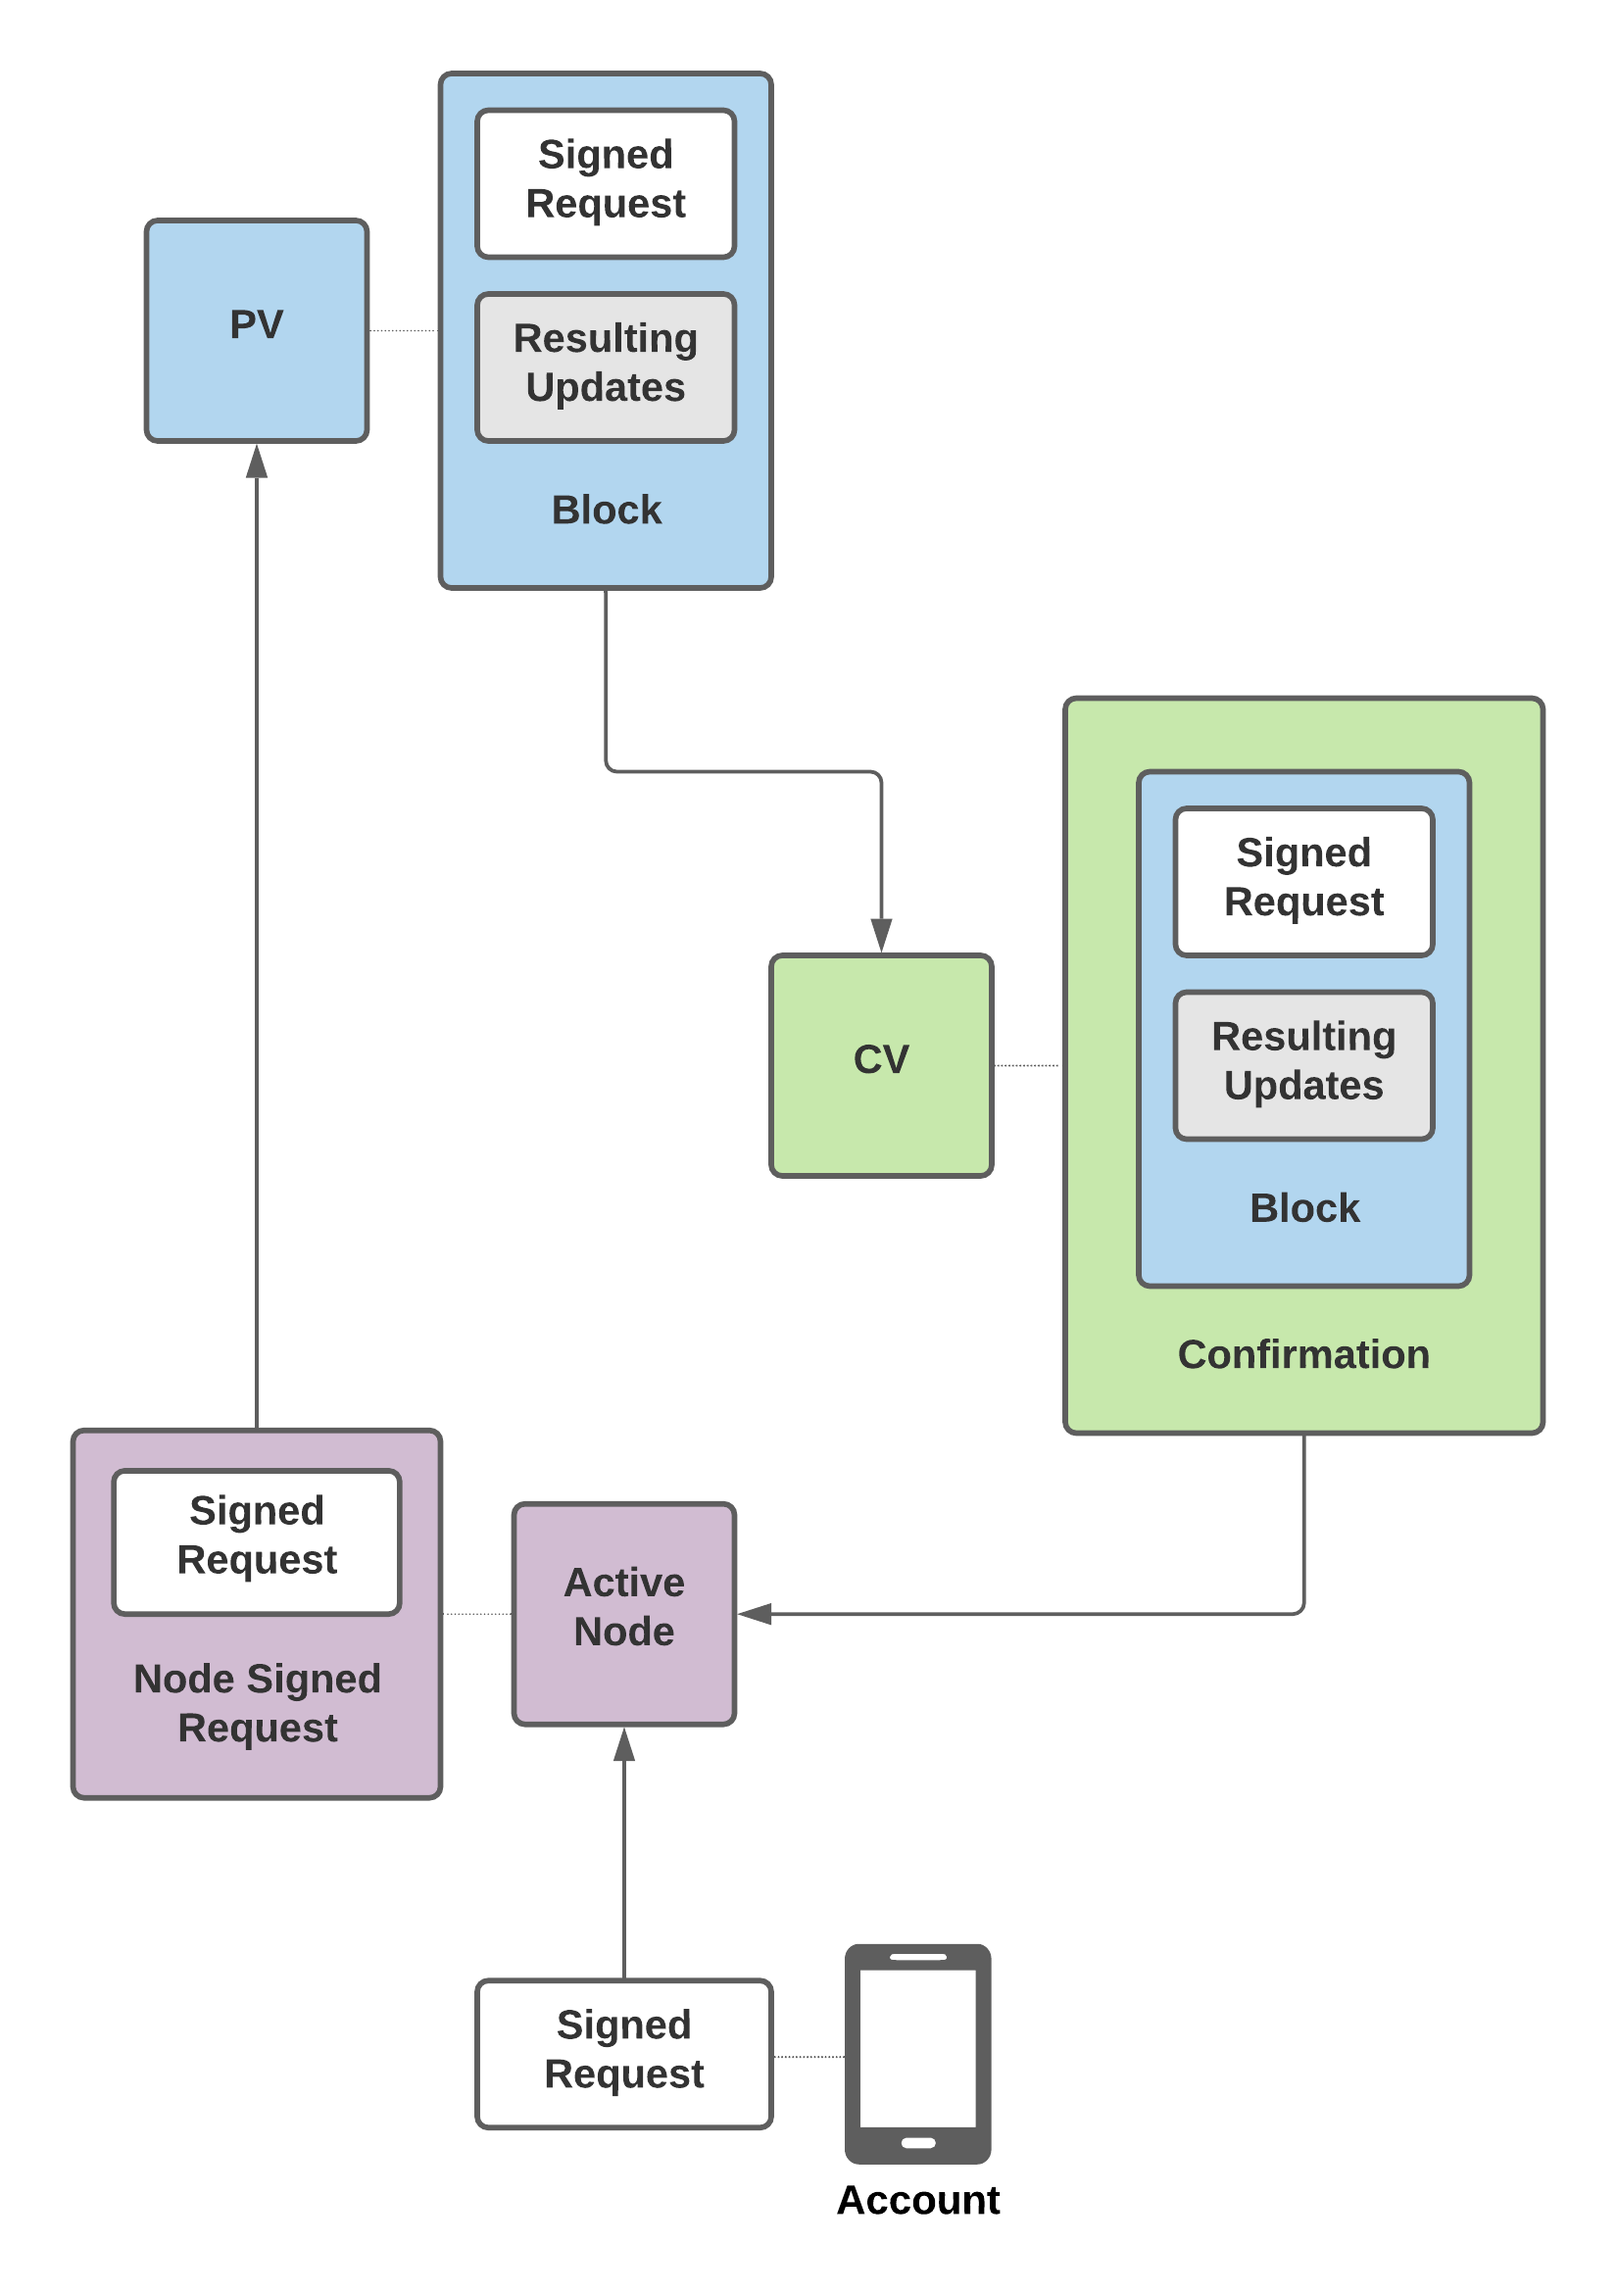
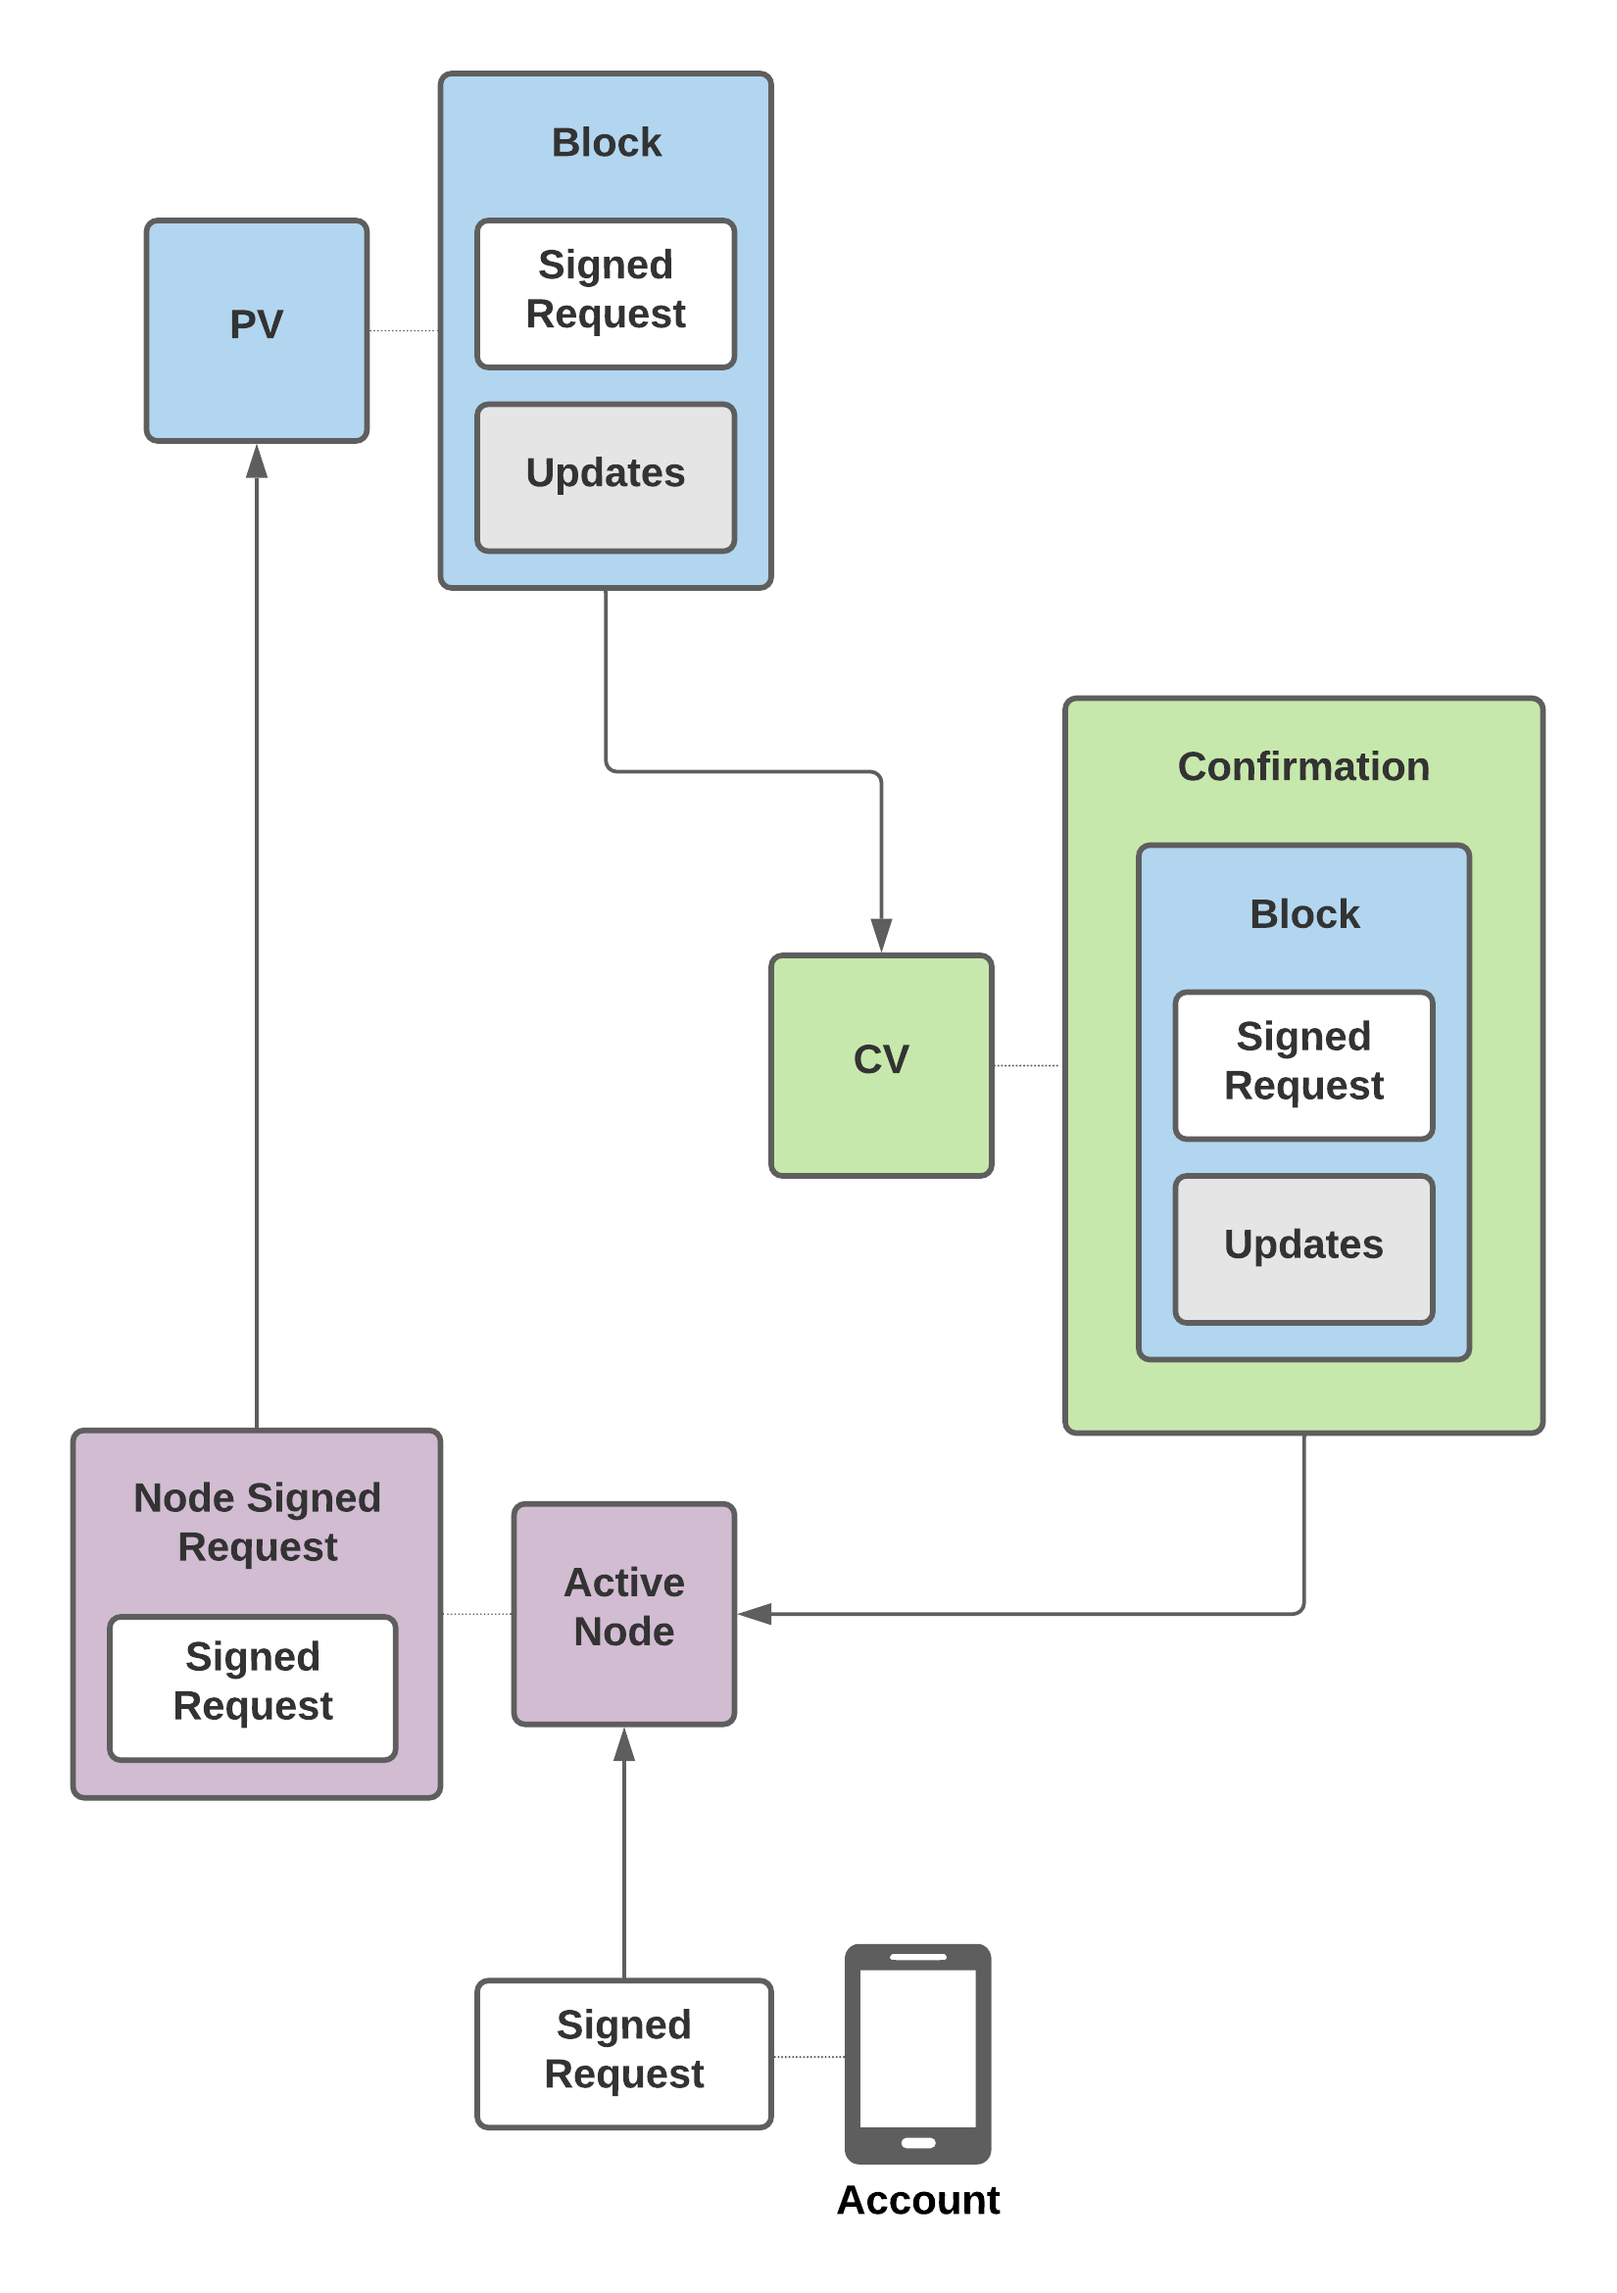
Doc updates

Changed region(s): [[0.68, 0.312, 0.9273, 0.6239], [0.2782, 0.0312, 0.4636, 0.2496], [0.0618, 0.6239, 0.2473, 0.7799]]

diff --git a/src/containers/Guide/GuideBlockStructure/index.tsx b/src/containers/Guide/GuideBlockStructure/index.tsx
@@ -2,28 +2,57 @@ import React, {FC} from 'react';
 
 import {DocContainer, DocImage, TableVertical} from 'components';
 
+import BlockStructure from './BlockStructure.png';
 import BlockStructureFlow from './BlockStructureFlow.png';
+import './GuideBlockStructure.scss';
 
 const GuideBlockStructure: FC = () => {
   return (
     <DocContainer className="GuideBlockStructure" title="Block Structure" lastUpdated="24 Apr 2021">
       <p>
-        Blocks are composed of <strong>signed requests</strong>, the resulting updates to the network, and the signature
-        of the primary validator. Although each signed request shape differs based on the specific type of change the
-        user is attempting to make to the network, the general structure is the same. Below we look at the common fields
-        included in all signed requests.
+        With exception of the genesis block, all blocks follow the same general structure. This structure provides a
+        clear description of change to one or more objects in the network, including both the original request and the
+        resulting updates.
       </p>
+
+      <DocImage alt="block structure" maxWidth={680} src={BlockStructure} />
+
+      <h3>Block Fields</h3>
       <TableVertical
         altColors
+        className="GuideBlockStructure__TableVertical"
+        rows={[
+          ['Signed Request', 'Request data that has been signed by an account owner'],
+          ['Updates', 'Resulting changes to one or more objects'],
+          [
+            'Signature',
+            'The signature of the PV indicating the validity of the block and the addition to its blockchain',
+          ],
+        ]}
+      />
+
+      <h3>Signed Request Fields</h3>
+      <TableVertical
+        altColors
+        className="GuideBlockStructure__TableVertical"
         rows={[
           ['Data Type', 'Indicator for what shape and type of data is included in the message'],
           ['Account Number', 'Identifier for an account'],
-          ['Account Lock', 'Unique value used to ensure that the same request is not processed more than once'],
-          ['Signature', 'Value used as proof that the account owner has authorized the request'],
-          ['Fees', 'Payments to nodes in exchange for processing the request'],
           ['Message', 'The shape and contents of this vary based on data type'],
+          ['Signature', 'Value used as proof that the account owner has authorized the request'],
         ]}
       />
+
+      <h3>Message Fields</h3>
+      <TableVertical
+        altColors
+        className="GuideBlockStructure__TableVertical"
+        rows={[
+          ['Account Lock', 'Unique value used to ensure that the same request is not processed more than once'],
+          ['Fees', 'Payments to nodes in exchange for processing the request'],
+        ]}
+      />
+
       <p>
         The following diagram outlines the flow from signed request to confirmation. As requests move throughout the
         network, nodes will sign the data as indication of validity. Each node type plays a different role in the

diff --git a/src/containers/Guide/GuideGlossary/index.tsx b/src/containers/Guide/GuideGlossary/index.tsx
@@ -41,7 +41,7 @@ const GuideGlossary: FC = () => {
           ],
           ['Schedule', 'A list of upcoming validators'],
           ['Signature', 'Value that confirms authenticity of a digital document'],
-          ['Signed Request (NSR)', 'Request data that has been signed by an account owner'],
+          ['Signed Request (SR)', 'Request data that has been signed by an account owner'],
           [
             'Validator',
             'Elected node responsible for the validation of data and the generation of blocks to add to the blockchain',

diff --git a/src/components/DocsMenuItems/index.tsx b/src/components/DocsMenuItems/index.tsx
@@ -186,6 +186,10 @@ export const guideNavigationData = [
     url: '/guide/blocks',
   },
   {
+    name: 'Block Structure',
+    url: '/guide/block-structure',
+  },
+  {
     name: 'Nodes',
     url: '/guide/nodes',
   },
@@ -208,10 +212,6 @@ export const guideNavigationData = [
   {
     name: 'Accounts',
     url: '/guide/accounts',
-  },
-  {
-    name: 'Block Structure',
-    url: '/guide/block-structure',
   },
   {
     name: 'Account Lock',

diff --git a/src/containers/Guide/GuideBlockStructure/GuideBlockStructure.scss b/src/containers/Guide/GuideBlockStructure/GuideBlockStructure.scss
@@ -1,0 +1,11 @@
+.GuideBlockStructure {
+  h3 {
+    font-size: 15px;
+    font-weight: 800;
+    margin-bottom: 10px;
+  }
+
+  &__TableVertical {
+    margin-bottom: 32px;
+  }
+}
